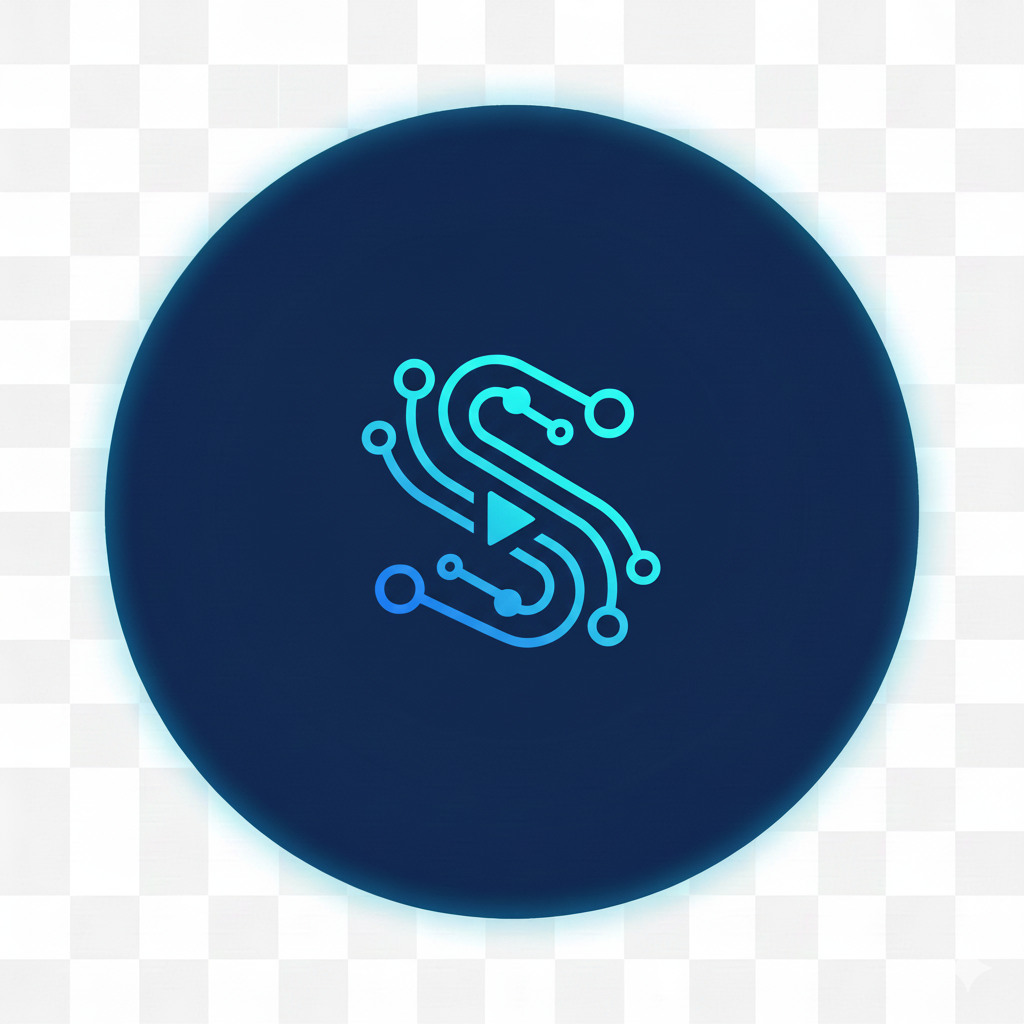
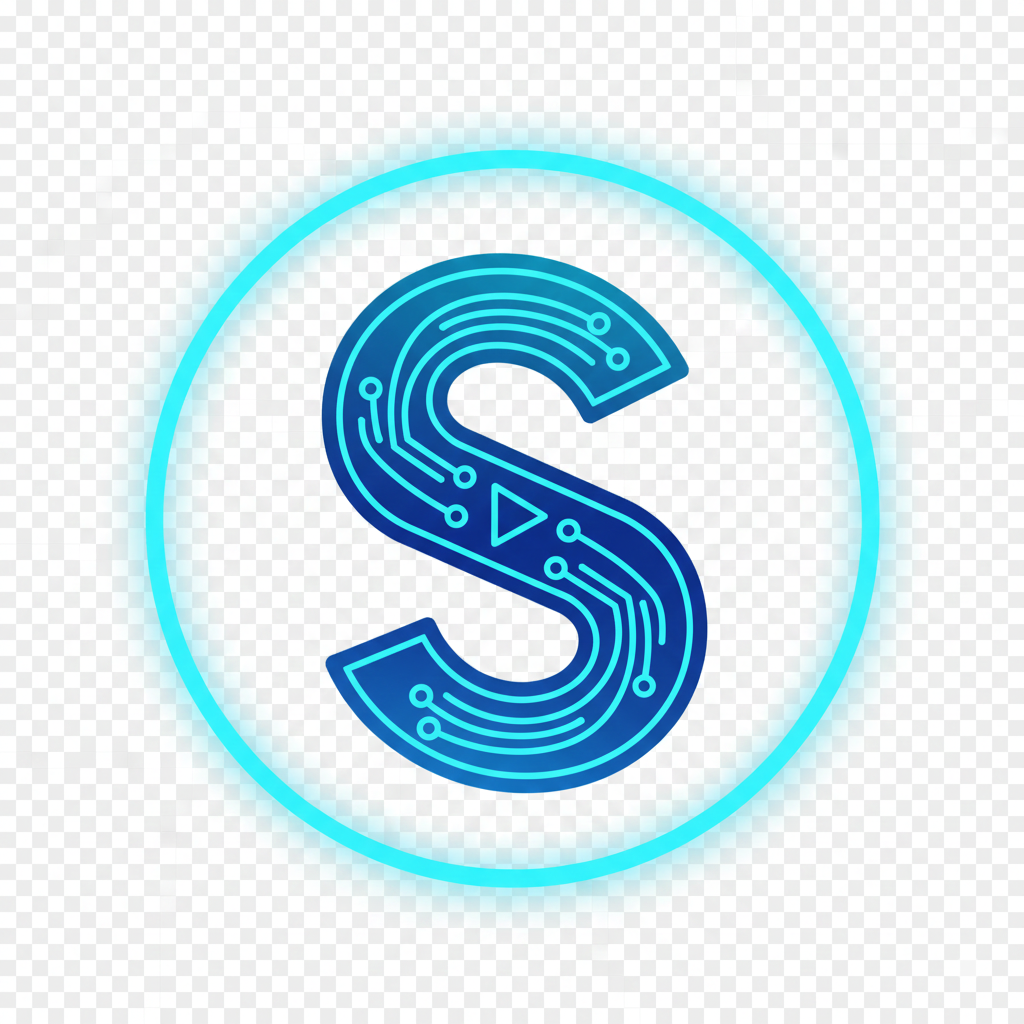
FINALCOMMIT

diff --git a/frontend/index.html b/frontend/index.html
@@ -1,8 +1,8 @@
-<!-- <!doctype html>
+<!doctype html>
 <html lang="en">
   <head>
     <meta charset="UTF-8" />
-    <link rel="icon" type="image/png" href="../frontend/src/components/image.png" />
+    <link rel="icon" type="image/png" href="/image.png" />
     <meta name="viewport" content="width=device-width, initial-scale=1.0" />
     <title>Streamify</title>
   </head>
@@ -10,4 +10,4 @@
     <div id="root"></div>
     <script type="module" src="/src/main.jsx"></script>
   </body>
-</html> -->
+</html>
